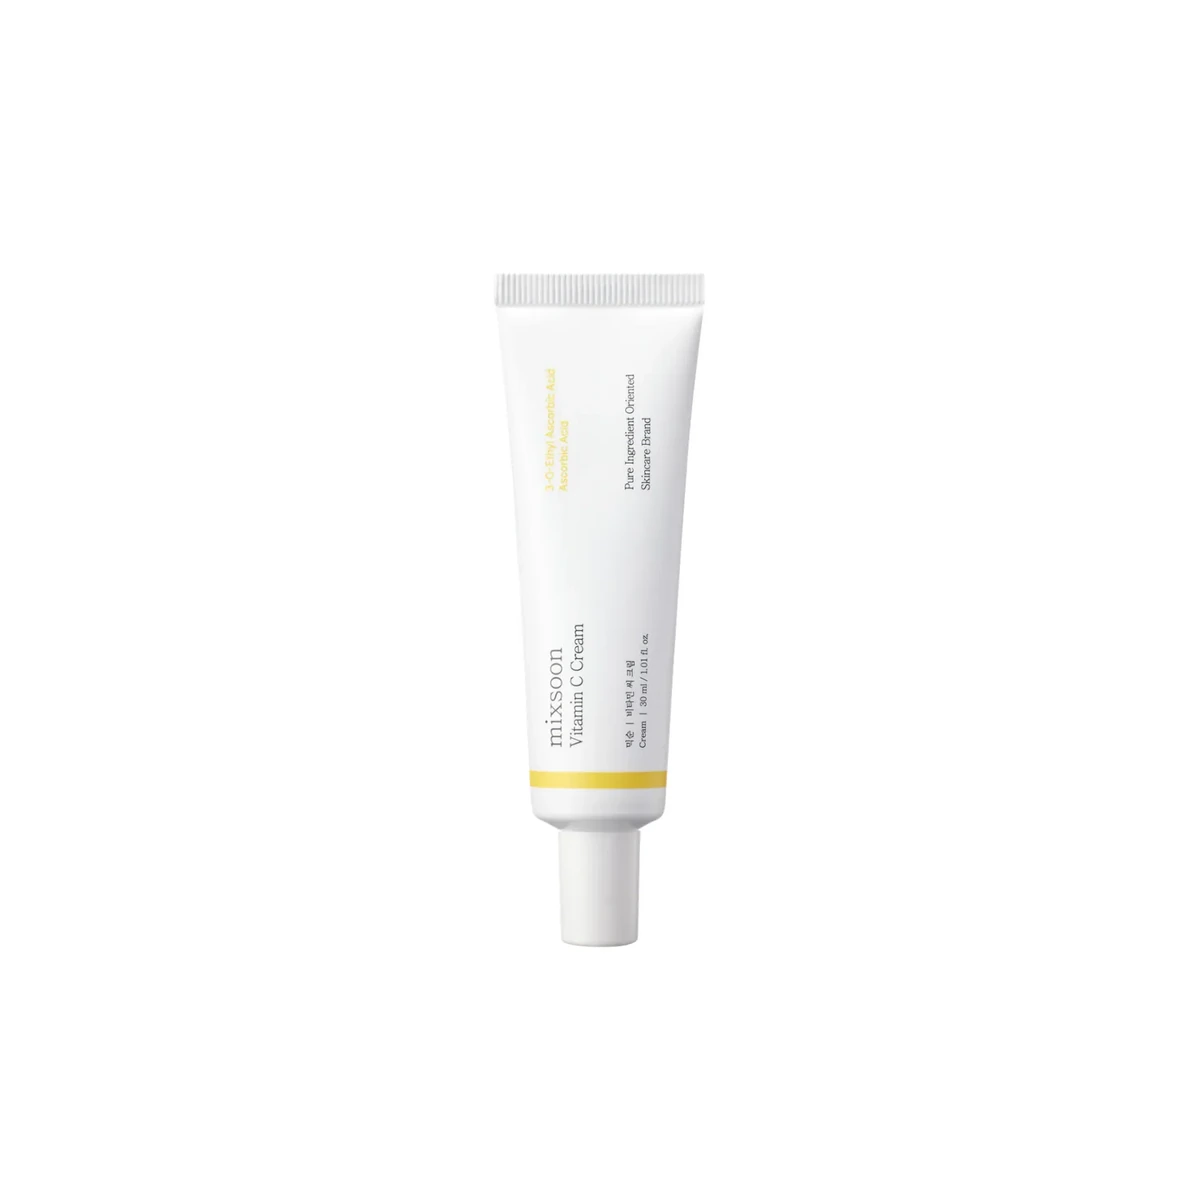
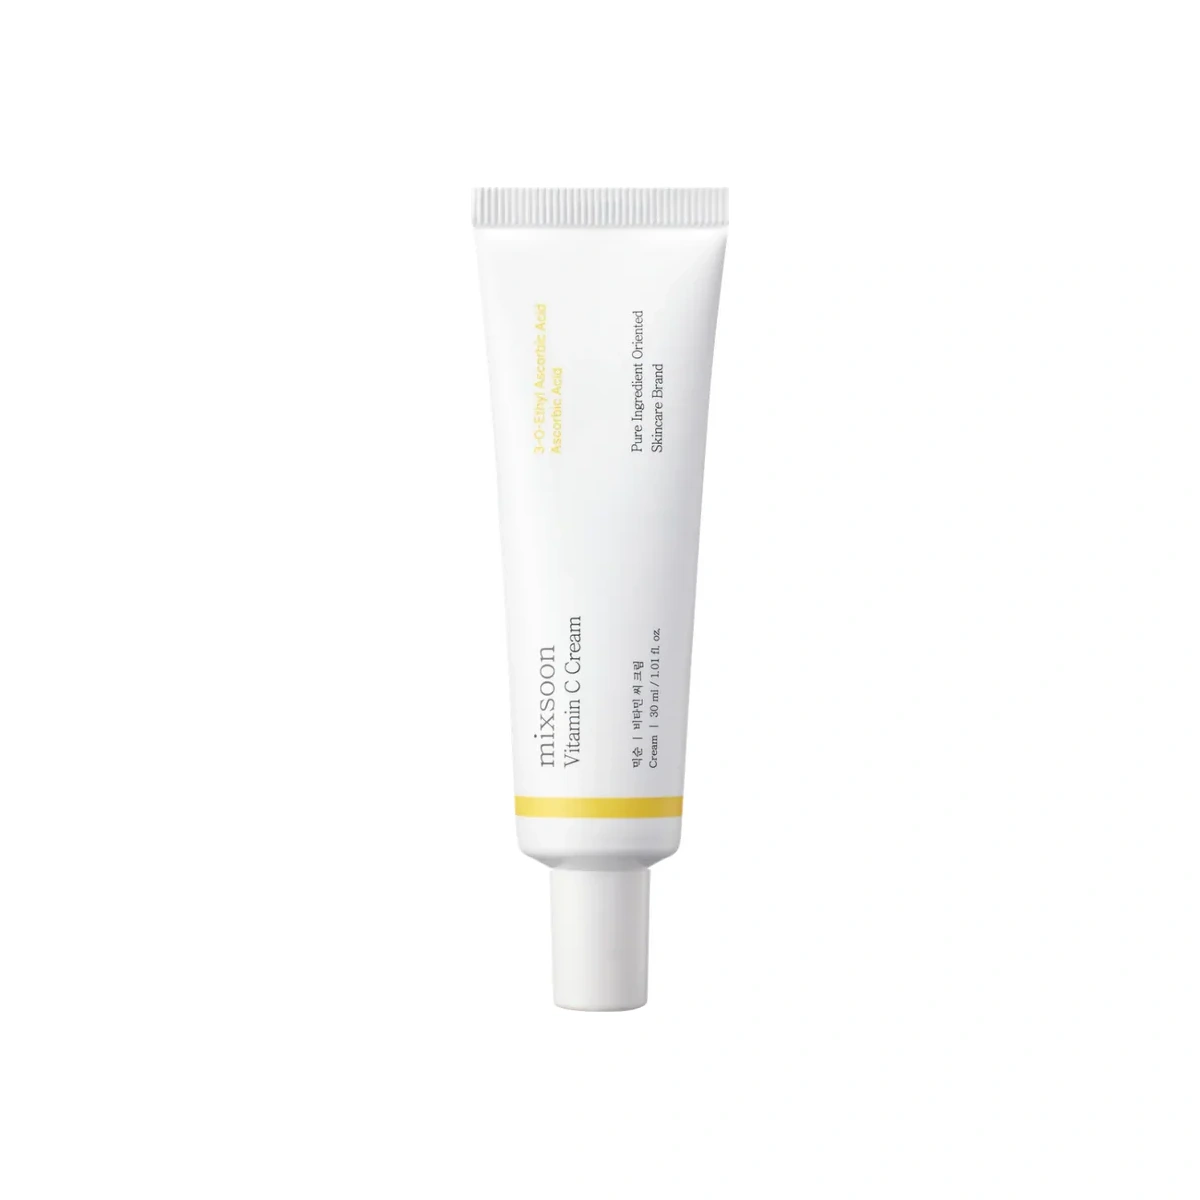
Add files via upload
priskinV8.1

Changed region(s): [[0.4008, 0.1542, 0.6167, 0.8633]]

diff --git a/css/styles.css b/css/styles.css
@@ -16,8 +16,7 @@ main{width:min(1220px,100%);margin:auto;padding:28px}
 .buttons{display:flex;gap:12px;flex-wrap:wrap;margin:24px 0}.benefits{display:grid;grid-template-columns:repeat(3,1fr);gap:12px;margin-top:22px}
 .benefits div{background:white;border:1px solid var(--line);border-radius:18px;padding:16px}.benefits b{display:block;color:#d94f81}.benefits span{color:#6b5c67;font-size:13px}
 .hero-product{min-height:380px;border-radius:32px;background:radial-gradient(circle,#ffdce9,#fff 64%);display:flex;align-items:center;justify-content:center;overflow:hidden}
-.hero-product img{width:78%;height:330px;object-fit:contain;filter:drop-shadow(0 24px 25px rgba(120,60,80,.20))}
-.brands-section,.searchbox{margin:28px 0;padding:22px;border:1px solid var(--line);background:white;border-radius:26px;box-shadow:var(--shadow);scroll-margin-top:105px}
+.hero-product img{width:78%;height:330px;object-fit:contain;padding:22px;border:1px solid var(--line);background:white;border-radius:26px;box-shadow:var(--shadow);scroll-margin-top:105px}
 .brands-section h2{font-size:32px;margin:8px 0 18px;color:#d94f81}.brand-buttons{display:flex;gap:10px;flex-wrap:wrap}
 .brand-pill{background:#fff;border:1px solid var(--line);color:#9a4c68;box-shadow:none}.brand-pill:hover{background:#fff0f6}
 .searchbox{display:grid;grid-template-columns:1.2fr 1fr 1fr auto;gap:14px}input,select,textarea,label{width:100%;padding:15px 17px;border:1px solid var(--line);border-radius:16px;background:white;font:inherit}
@@ -28,8 +27,7 @@ main{width:min(1220px,100%);margin:auto;padding:28px}
 .badge{position:absolute;top:16px;left:16px;z-index:2;background:#e85b8a;color:white;font-size:11px;font-weight:900;border-radius:9px;padding:8px 10px}
 .quick{position:absolute;top:16px;right:16px;z-index:2;background:white;color:#d94f81;border:1px solid var(--line);box-shadow:none;padding:8px 11px}
 .pic{height:285px;background:linear-gradient(135deg,#fff,#fff1f6 60%,#edf9fb);display:flex;align-items:center;justify-content:center;padding:28px}
-.pic img{width:100%;height:100%;object-fit:contain;object-position:center center;display:block;filter:drop-shadow(0 16px 14px rgba(100,60,75,.12))}
-.body{padding:18px;display:flex;flex-direction:column;flex:1}.brand{color:#bd5a80;font-size:13px;font-weight:900}.body h3{font-size:18px;line-height:1.18;margin:8px 0}.body p{color:#5e5660;line-height:1.4;font-size:14px;min-height:58px}
+.pic img{width:100%;height:100%;object-fit:contain;object-position:center center;display:block;display:flex;flex-direction:column;flex:1}.brand{color:#bd5a80;font-size:13px;font-weight:900}.body h3{font-size:18px;line-height:1.18;margin:8px 0}.body p{color:#5e5660;line-height:1.4;font-size:14px;min-height:58px}
 .price{font-size:22px;font-weight:900;color:#d94f81}.pill{font-size:11px;color:#c15f83;font-weight:900;background:#ffe8f0;border:1px solid #f4bfd0;border-radius:999px;padding:7px 10px}.price-line{display:flex;align-items:center;gap:10px;margin-top:auto}
 .add-cart{display:block;text-align:center;margin-top:14px;border-radius:14px;background:#ffe8f0;color:#d94f81;border:1px solid #f4bfd0;padding:12px;font-weight:900;box-shadow:none}
 .overlay{position:fixed;inset:0;background:rgba(30,20,28,.38);z-index:30;display:none}.overlay.open{display:block}
@@ -241,3 +239,44 @@ footer{width:min(1220px,100%);margin:40px auto 0;padding:28px;color:#8a7580;bord
 .hero-showcase img,.hero-product img{object-fit:contain!important;filter:none!important}
 .cart-item img,.modal-grid img,.row img{object-fit:contain!important;background:#fff!important}
 @media(max-width:850px){.pic{height:360px!important;padding:12px!important}}
+
+
+/* V8.1 CLEAN PRODUCT IMAGES */
+.pic{
+  background:#fff !important;
+  box-shadow:none !important;
+  border-bottom:1px solid var(--line);
+  overflow:hidden;
+}
+.pic img{
+  object-fit:contain !important;
+  object-position:center center !important;
+  filter:none !important;
+  mix-blend-mode:normal !important;
+  background:transparent !important;
+  transform:none;
+}
+.card:hover .pic img{
+  transform:scale(1.035);
+}
+.hero-product,
+.hero-showcase{
+  background:radial-gradient(circle,#fff4f8 0%,#ffffff 68%) !important;
+}
+.hero-product img,
+.hero-showcase img,
+.modal-grid img,
+.cart-item img,
+.row img{
+  object-fit:contain !important;
+  filter:none !important;
+  background:#fff !important;
+}
+.modal-grid img{
+  border:1px solid var(--line);
+}
+@media(max-width:850px){
+  .pic{
+    background:#fff !important;
+  }
+}

diff --git a/README.md b/README.md
@@ -1,3 +1,6 @@
-# PriSkin V8 HD Updated
+# PriSkin V8.1 Premium Clean Images
 
-Actualiza imágenes de VT Reedle Shot 100 y Mixsoon Vitamin C Cream.
+- Actualiza VT Reedle Shot 100 eliminando fondo negro.
+- Actualiza Mixsoon Vitamin C Cream.
+- Elimina sombras/fondos grises detrás de productos.
+- Mantiene carrito, responsive mobile/tablet y checkout por WhatsApp.